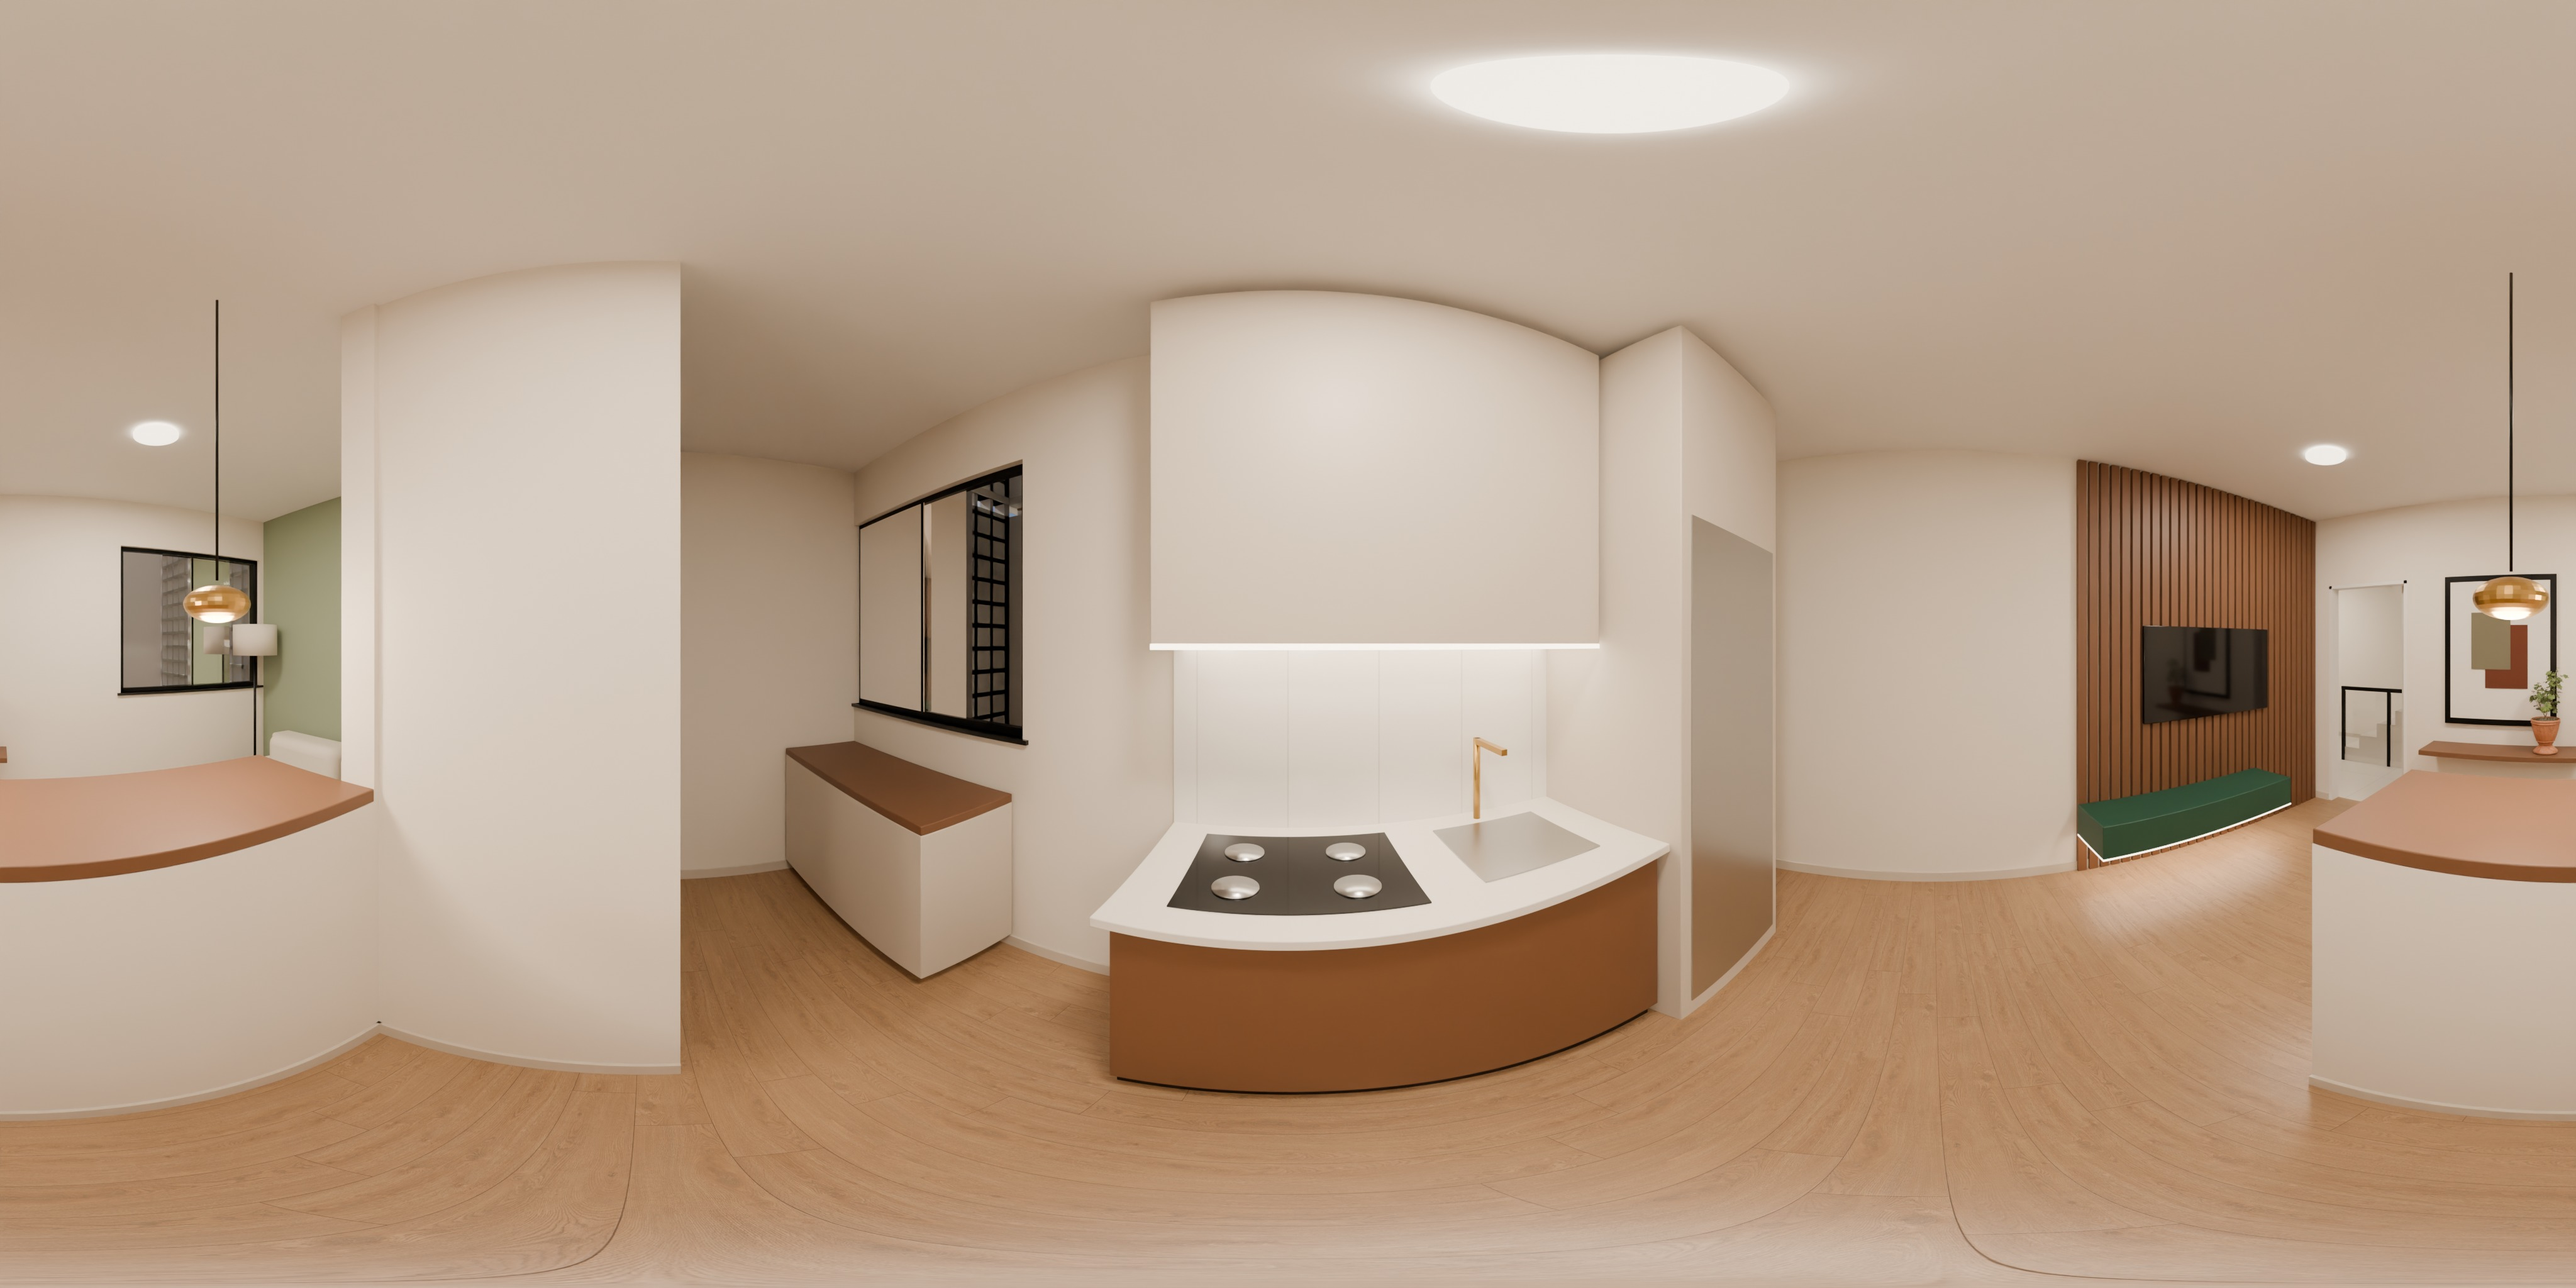
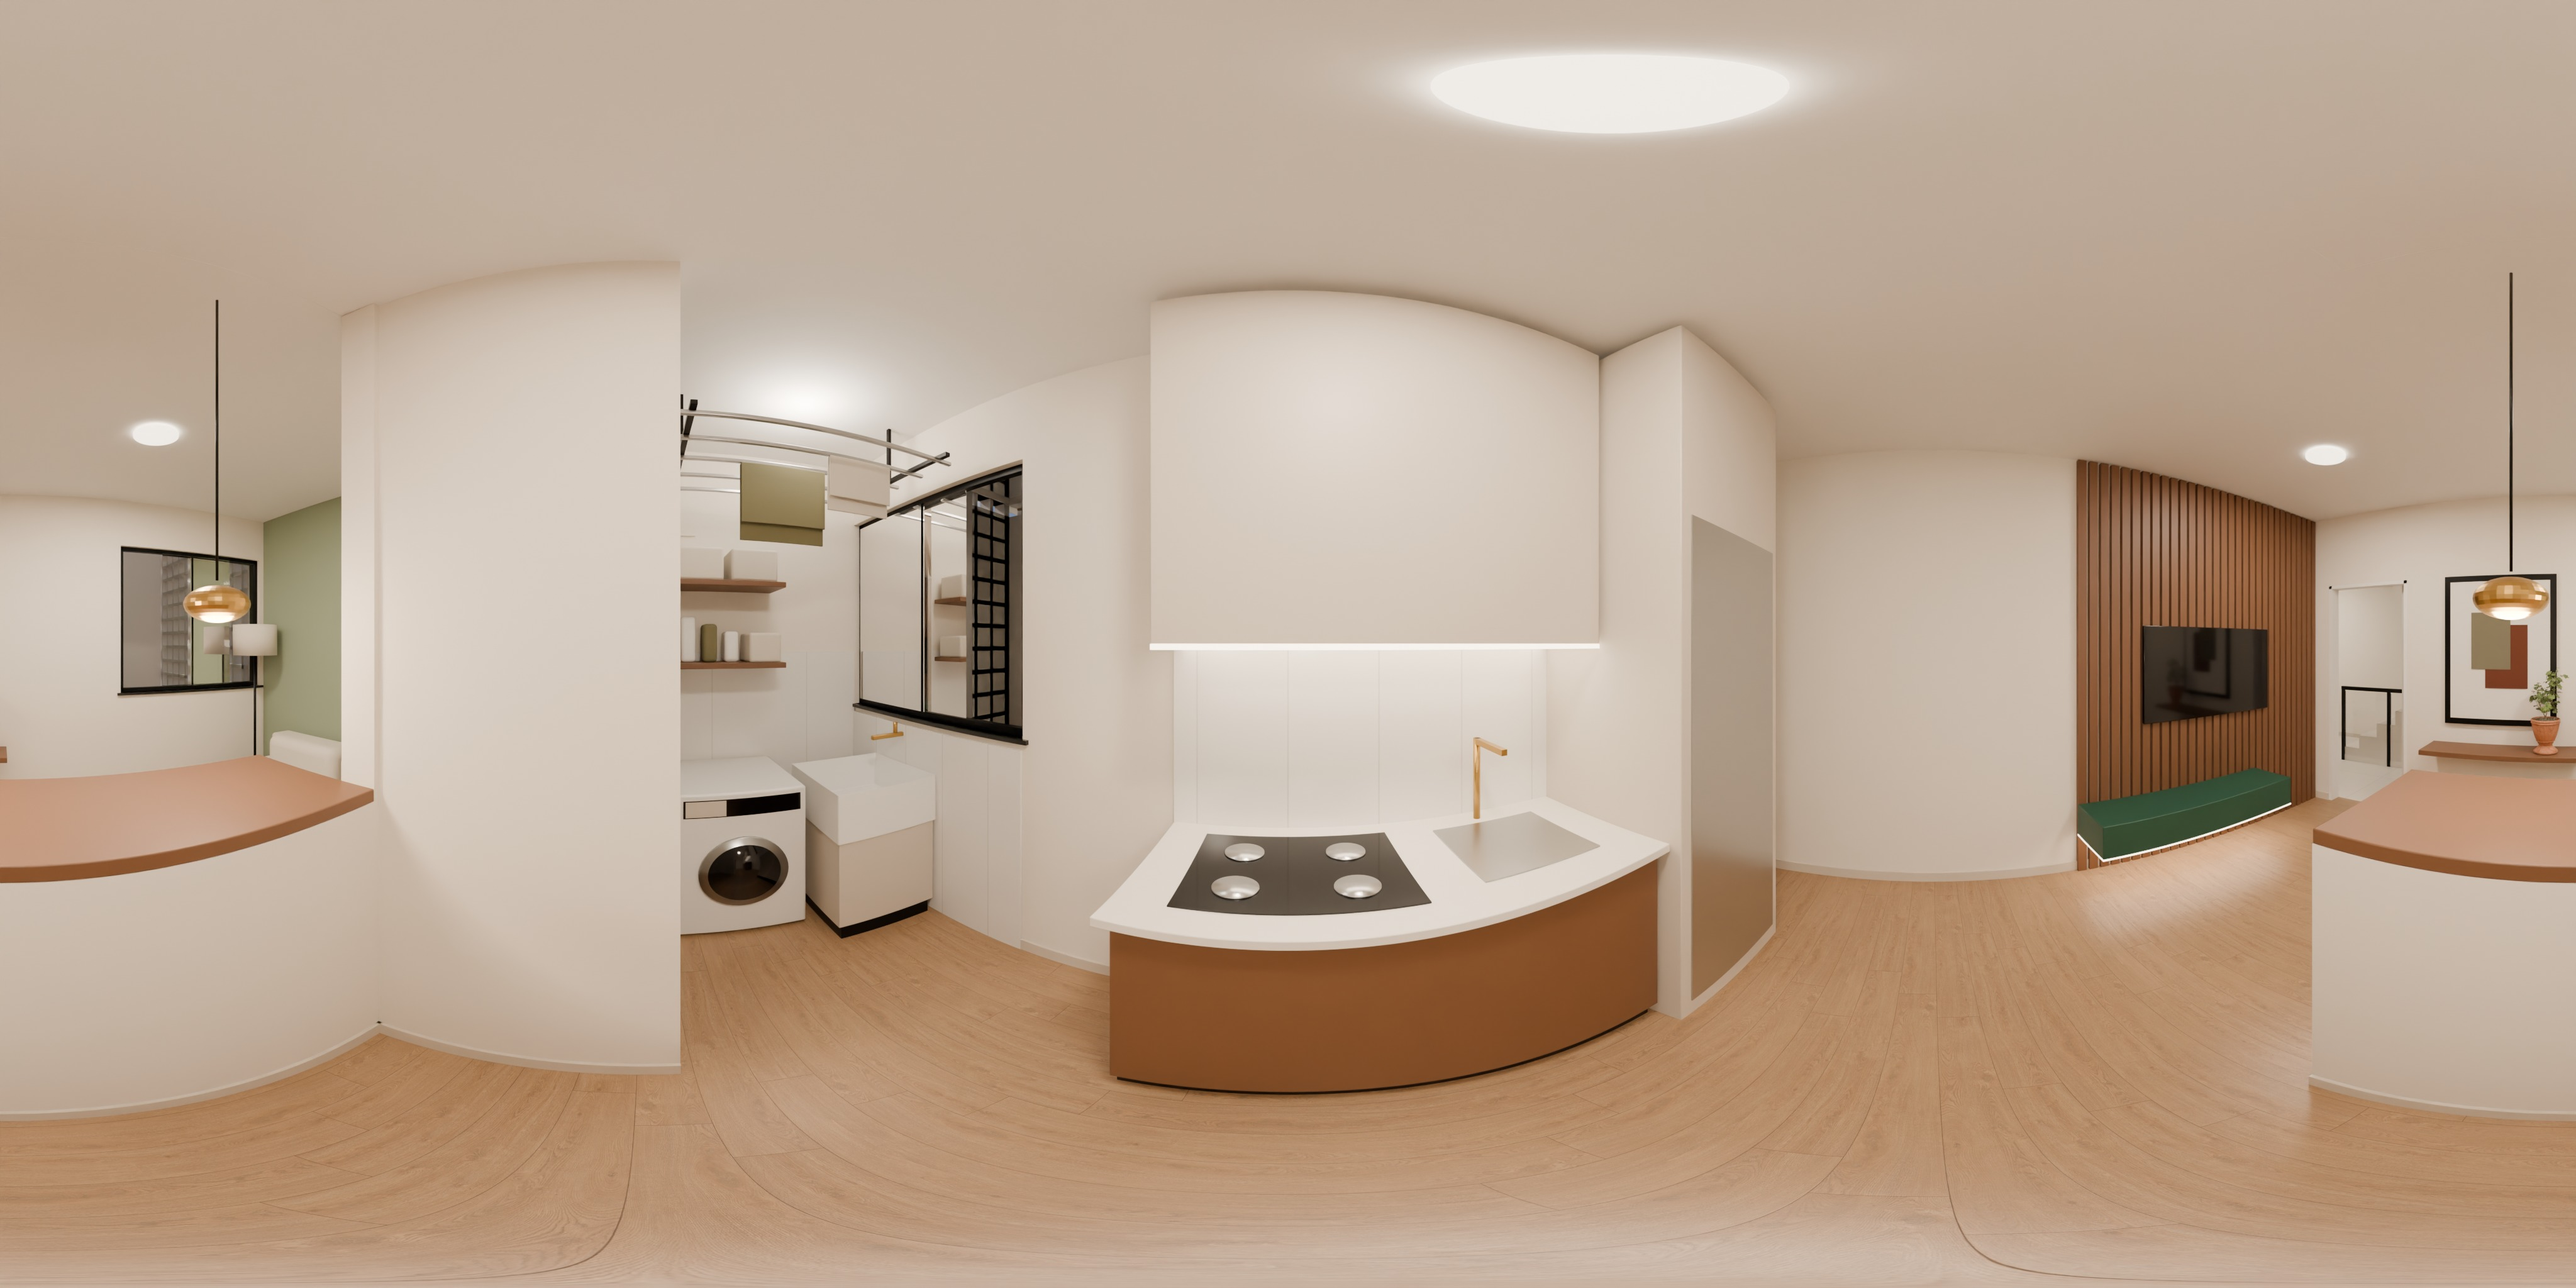
Tour 3D: area de servico do 3 quartos e do terreo (360 novos, cozinhas refeitas)

Changed region(s): [[0.25, 0.1875, 0.4688, 0.9062]]

diff --git a/index.html b/index.html
@@ -139,7 +139,8 @@ const CENAS = {
   hall_andar:    {tipo:"predio", nome:"Hall dos andares", area:"1º e 2º andar", pano:"x_hall_andar", cam:[-0.72,5.9], olho:1.55, yaw:-90},
 
   q_sala:    {tipo:"q3", nome:"Sala", area:"11,47", pano:"3q_sala", x:[0,2.40], y:[0,4.78], cam:[1.10,3.30], yaw:-35},
-  q_cozinha: {tipo:"q3", nome:"Cozinha e lavanderia", area:"10,03", pano:"3q_cozinha", x:[2.52,4.55], y:[0,4.78], cam:[3.20,2.40], yaw:-90},
+  q_cozinha: {tipo:"q3", nome:"Cozinha", area:"10,03", pano:"3q_cozinha", x:[2.52,4.55], y:[1.38,4.78], cam:[3.20,2.40], yaw:-90},
+  q_servico: {tipo:"q3", nome:"Área de serviço", area:"tanque e lava e seca", pano:"3q_lavanderia", x:[2.52,4.55], y:[0,1.38], cam:[3.80,2.05], yaw:-90},
   q_banheiro:{tipo:"q3", nome:"Banheiro", area:"3,39", pano:"3q_banheiro", x:[4.67,6.17], y:[1.50,3.76], cam:[5.60,3.10], yaw:-120},
   q_corredor:{tipo:"q3", nome:"Circulação", area:"5,73", pano:"3q_corredor", x:[4.67,11.04], y:[3.88,4.78], cam:[7.85,4.33], yaw:180},
   q_quarto3: {tipo:"q3", nome:"Quarto", area:"9,02", pano:"3q_quarto3", x:[6.29,8.69], y:[0,3.76], cam:[7.60,3.30], yaw:-150},
@@ -147,7 +148,8 @@ const CENAS = {
   q_quarto1: {tipo:"q3", nome:"Quarto do casal", area:"12,37", pano:"3q_quarto1", x:[12.04,14.44], y:[0,4.78], cam:[13.25,3.95], yaw:-150},
 
   t_sala:    {tipo:"terreo", nome:"Sala", area:"11,47", pano:"t_sala", x:[0,2.40], y:[0,4.78], cam:[1.10,3.30], yaw:-35},
-  t_cozinha: {tipo:"terreo", nome:"Cozinha e lavanderia", area:"10,03", pano:"t_cozinha", x:[2.52,4.55], y:[0,4.78], cam:[3.20,2.40], yaw:-90},
+  t_cozinha: {tipo:"terreo", nome:"Cozinha", area:"10,03", pano:"t_cozinha", x:[2.52,4.55], y:[1.38,4.78], cam:[3.20,2.40], yaw:-90},
+  t_servico: {tipo:"terreo", nome:"Área de serviço", area:"tanque e lava e seca", pano:"t_lavanderia", x:[2.52,4.55], y:[0,1.38], cam:[3.80,2.05], yaw:-90},
   t_banheiro:{tipo:"terreo", nome:"Banheiro", area:"3,39", pano:"t_banheiro", x:[4.67,6.17], y:[1.50,3.76], cam:[5.60,3.10], yaw:-120},
   t_corredor:{tipo:"terreo", nome:"Circulação", area:"5,73", pano:"t_corredor", x:[4.67,11.04], y:[3.88,4.78], cam:[7.85,4.33], yaw:180},
   t_quarto3: {tipo:"terreo", nome:"Quarto", area:"9,02", pano:"t_quarto3", x:[6.29,8.69], y:[0,3.76], cam:[7.60,3.30], yaw:-60},
@@ -170,12 +172,14 @@ const PASSAGENS = {
   hall_andar:[["hall_terreo",[-1.90,3.4],"Descer",90],["q_sala",[-0.06,4.20],"Apto 201 · 301",0],["q_sala",[-0.06,5.56],"Apto 202 · 302",0],["d_sala",[-2.52,7.78],"Apto 203 · 303",180]],
 
   q_sala:[["q_cozinha",[2.46,3.70]],["hall_andar",[-0.06,4.20],"Sair para o hall",180]],
-  q_cozinha:[["q_sala",[2.46,3.70]],["q_corredor",[4.61,4.33]]],
+  q_cozinha:[["q_sala",[2.46,3.70]],["q_corredor",[4.61,4.33]],["q_servico",[3.95,1.38],"Área de serviço",-90]],
+  q_servico:[["q_cozinha",[3.20,3.40],"Cozinha"],["q_sala",[2.46,3.70]],["q_corredor",[4.61,4.33]]],
   q_corredor:[["q_cozinha",[4.61,4.33]],["q_banheiro",[5.70,3.82]],["q_quarto3",[6.75,3.82]],["q_quarto2",[9.26,3.82]],["q_quarto1",[10.98,4.33]]],
   q_banheiro:[["q_corredor",[5.70,3.82]]], q_quarto3:[["q_corredor",[6.75,3.82]]], q_quarto2:[["q_corredor",[9.26,3.82]]], q_quarto1:[["q_corredor",[10.98,4.33]]],
 
   t_sala:[["t_cozinha",[2.46,3.70]],["hall_terreo",[-0.06,4.20],"Sair para o hall",180]],
-  t_cozinha:[["t_sala",[2.46,3.70]],["t_corredor",[4.61,4.33]]],
+  t_cozinha:[["t_sala",[2.46,3.70]],["t_corredor",[4.61,4.33]],["t_servico",[3.95,1.38],"Área de serviço",-90]],
+  t_servico:[["t_cozinha",[3.20,3.40],"Cozinha"],["t_sala",[2.46,3.70]],["t_corredor",[4.61,4.33]]],
   t_corredor:[["t_cozinha",[4.61,4.33]],["t_banheiro",[5.70,3.82]],["t_quarto3",[6.75,3.82]],["t_quarto2",[9.26,3.82]],["t_quarto1",[10.98,4.33]]],
   t_banheiro:[["t_corredor",[5.70,3.82]]],
   t_quarto3:[["t_corredor",[6.75,3.82]],["t_patio",[8.69,0.69],"Pátio"]],
@@ -249,8 +253,8 @@ function desenhaApto(tipo){
     const g = document.createElementNS(NS,"g"); g.setAttribute("class","sala-g"); g.setAttribute("tabindex","0"); g.setAttribute("role","button");
     g.setAttribute("aria-label", `${c.nome}, ${c.area} metros quadrados`);
     const w = c.x[1]-c.x[0], h = c.y[1]-c.y[0], cx = c.x[0]+w/2, cy = c.y[0]+h/2, peq = w < 1.6 || h < 1.2;
-    const fs = peq ? .26 : .34, nome = c.nome.replace(" e lavanderia","").replace(" ou hóspedes","").replace(" e jantar","");
-    g.innerHTML = `<rect x="${c.x[0]}" y="${c.y[0]}" width="${w}" height="${h}" rx=".04"/><text x="${cx}" y="${peq ? cy+.1 : cy-.05}" text-anchor="middle" font-size="${fs}" font-weight="500">${nome}</text>${peq ? "" : `<text x="${cx}" y="${cy+.40}" text-anchor="middle" font-size=".28" opacity=".75">${c.area} m²</text>`}`;
+    const fs = peq ? .26 : .34, nome = c.nome.replace(" e lavanderia","").replace(" ou hóspedes","").replace(" e jantar","").replace("Área de serviço", w < 2.4 ? "Serviço" : "Área de serviço");
+    g.innerHTML = `<rect x="${c.x[0]}" y="${c.y[0]}" width="${w}" height="${h}" rx=".04"/><text x="${cx}" y="${peq ? cy+.1 : cy-.05}" text-anchor="middle" font-size="${fs}" font-weight="500">${nome}</text>${peq ? "" : `<text x="${cx}" y="${cy+.40}" text-anchor="middle" font-size=".28" opacity=".75">${/^[0-9]/.test(c.area) ? c.area + " m²" : ""}</text>`}`;
     g.addEventListener("click", () => viewer.loadScene(id)); g.addEventListener("keydown", e => { if (e.key==="Enter"||e.key===" "){e.preventDefault(); viewer.loadScene(id);} });
     svg.appendChild(g); grupos[id] = g; addLista(id); }
   cone = document.createElementNS(NS,"path"); cone.setAttribute("fill","rgba(233,160,127,.45)");
